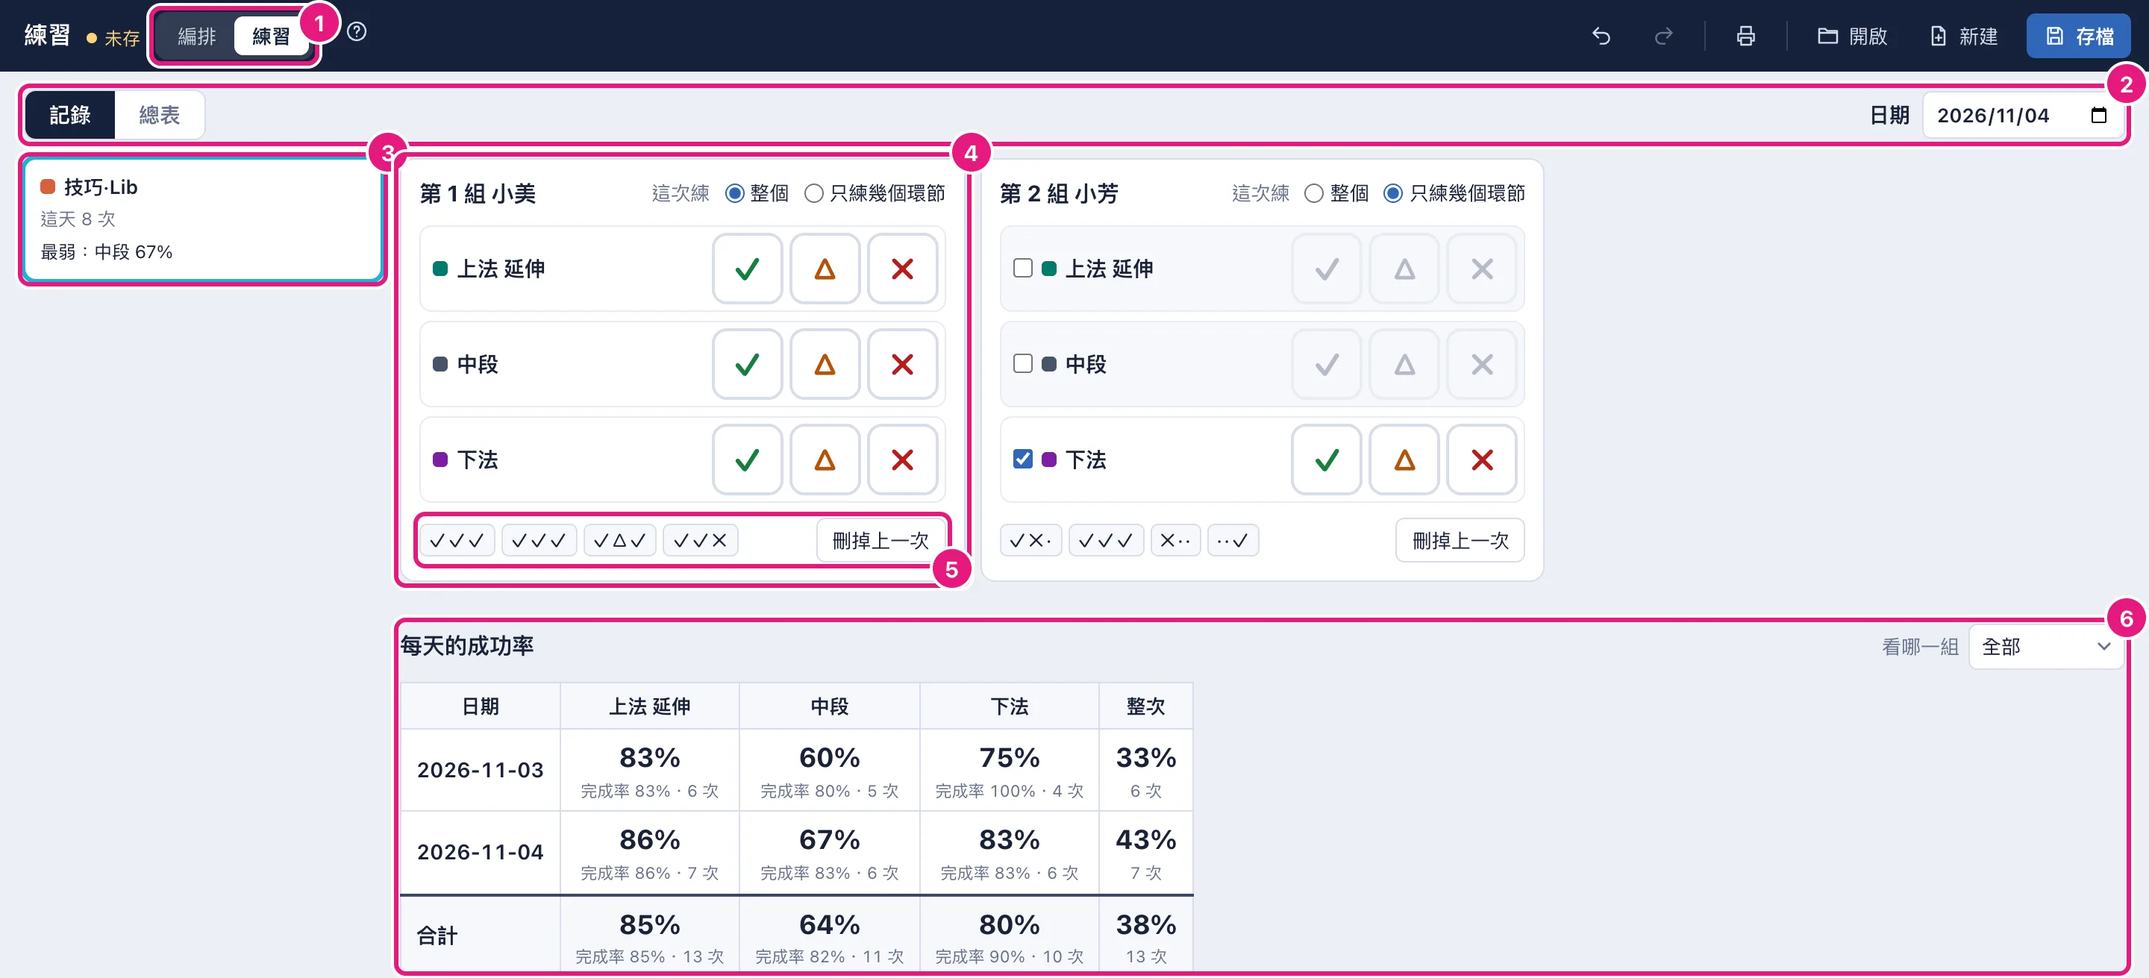
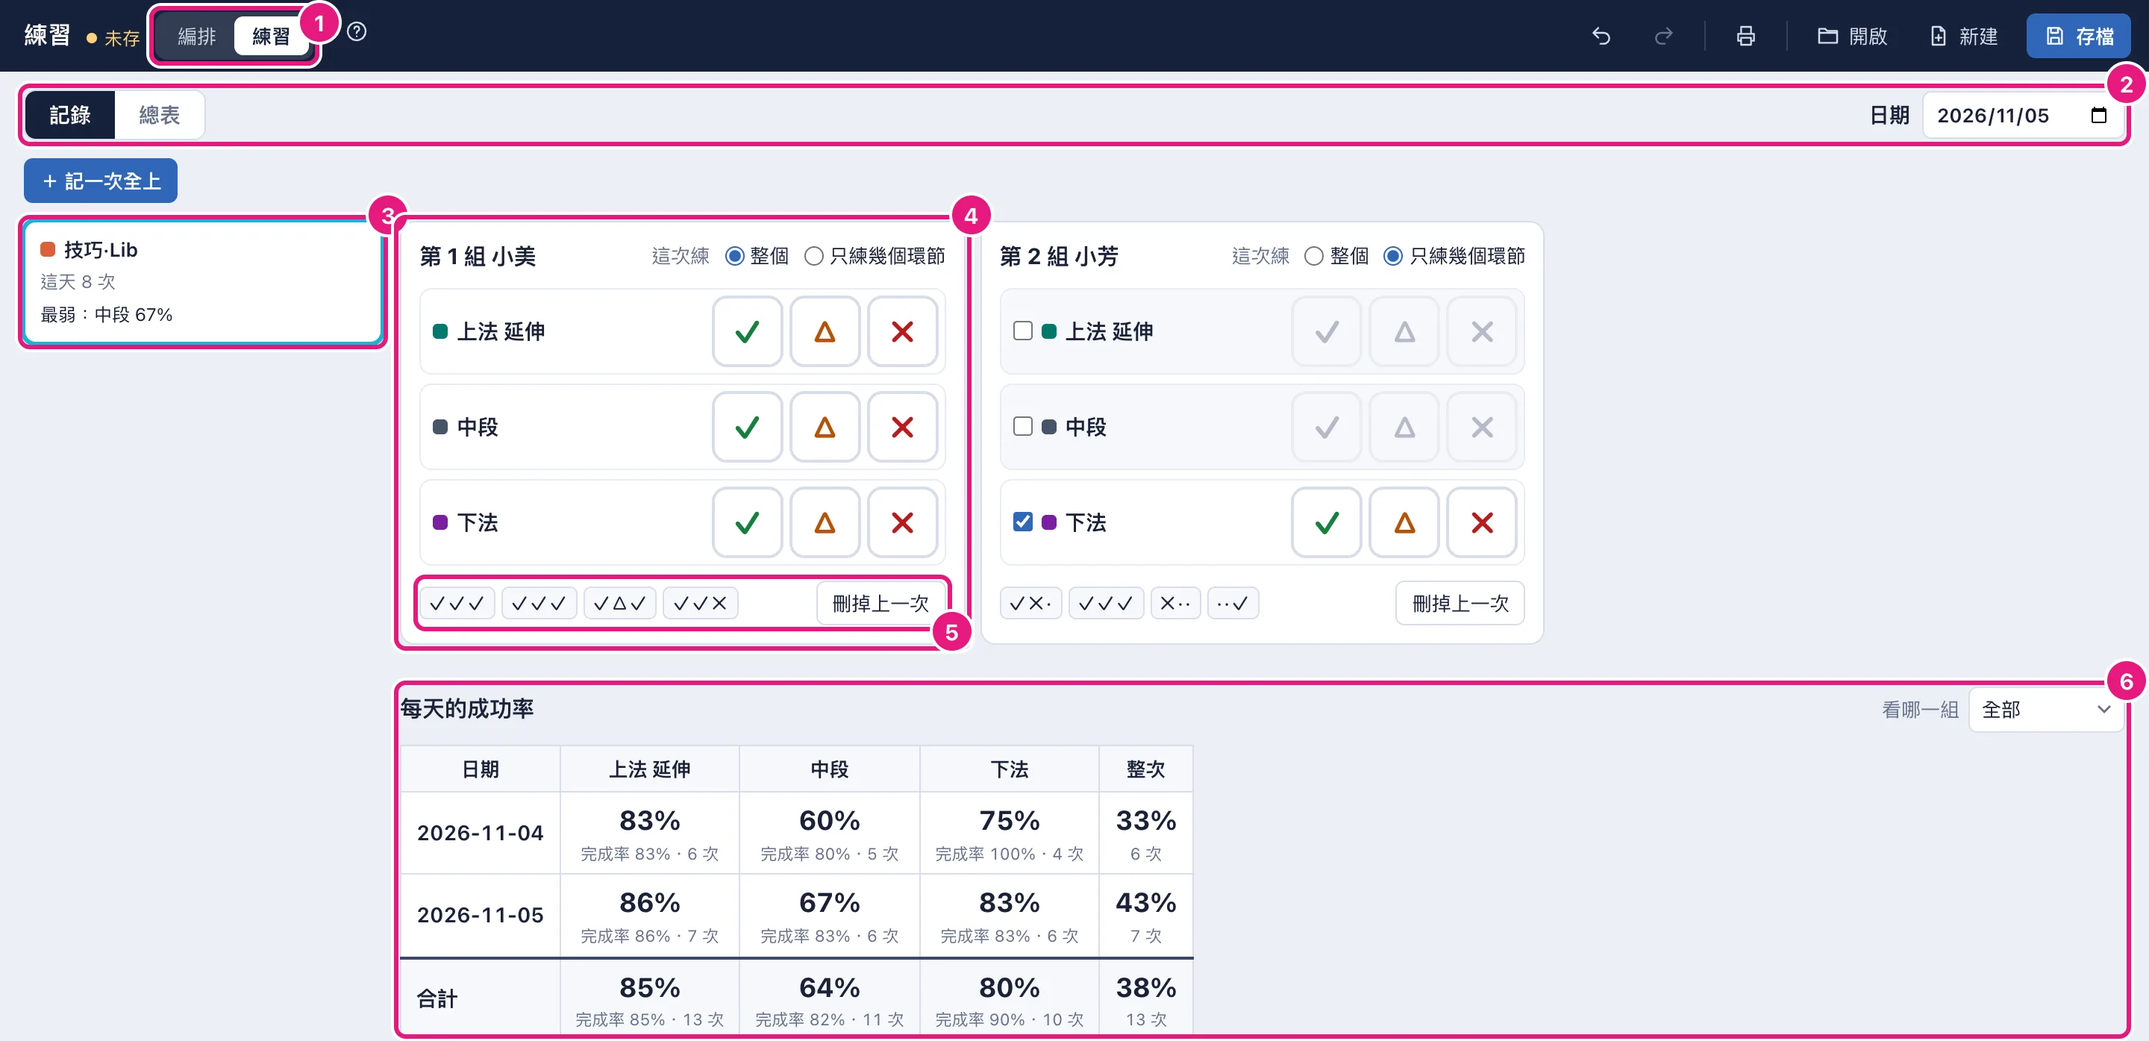
使用說明 4.10 照新的做法改：拍點格子加環節、場上分組（#70）
- 4.10：音樂段在拍點格子加、標、清、點色條改環節；口號段的環節列；
  場上分組（組號小圓、分組浮動列、數字鍵、n 人沒分組）；記錄頁和總表都能記一次全上。
- 圖 16 換成兩張新截圖：拍點格子的環節列（rate）和場上分組的浮動列（squads）。
- 名詞對照表的「組」「環節」照 GLOSSARY.md 改；快捷鍵表多一列數字鍵。
- 截圖腳本第 10 步改用拍點格子加三個環節、在泳道點名字選人後按「放進新的一組」；重拍全部截圖。
- 記錄頁沒分組時的提示不再叫人去選「第幾組」。

Claude-Session: https://claude.ai/code/session_01CaumttvZ1CWN5S4YrSALpJ

diff --git a/src/routes/guide/+page.svelte b/src/routes/guide/+page.svelte
@@ -20,6 +20,7 @@
 	import printShot from '#lib/guide/shots/print.webp';
 	import cuesShot from '#lib/guide/shots/cues.webp';
 	import rateShot from '#lib/guide/shots/rate.webp';
+	import squadsShot from '#lib/guide/shots/squads.webp';
 	import recordShot from '#lib/guide/shots/record.webp';
 	import summaryShot from '#lib/guide/shots/summary.webp';
 
@@ -179,8 +180,8 @@
 							<tr><td><b>步驟</b></td><td>一個動作裡分出來的一段，例如下手、落地、放，可以佔好幾拍。動作自己的名字（例如 Lib）不是步驟。</td></tr>
 							<tr><td><b>手位</b></td><td>手臂擺出的固定姿勢，例如 high V、T，只佔一拍。</td></tr>
 							<tr class="group"><td colspan="2">成功率（見 <a href="#practice">4.10</a>）</td></tr>
-							<tr><td><b>組</b></td><td>一個動作裡一起做、一起算成功率的幾個人，例如一個技巧的主底、側底、後保、上層。一個動作可以有好幾組。沒分到組的人不算成功率。騰翻、跳躍的動作不分組，每個人自己算。</td></tr>
-							<tr><td><b>環節</b></td><td>一個動作裡要分開算成功率的一部分。種類只有五種：上法、中段、轉接、下法、整體；可以再取名字，例如上法「延伸」。</td></tr>
+							<tr><td><b>組</b></td><td>一個動作裡一起做、一起算成功率的幾個人，例如一個技巧的主底、側底、後保、上層。一個動作可以有好幾組，例如 16 個人分 4 組同時做一樣的技巧。組號從 1 連續往下排，不跳號：一組空掉，後面的組往前補號，紀錄跟著換號。加第一個環節時，全部的人先在第 1 組。沒分到組的人不算成功率。騰翻、跳躍的動作不分組，每個人自己算。</td></tr>
+							<tr><td><b>環節</b></td><td>一個動作裡要分開算成功率的一部分。種類只有五種：上法、中段、轉接、下法、整體；可以再取名字，例如上法「延伸」。在音樂段，環節一定佔動作裡的哪幾拍，照拍的先後排；拍被清光，環節就沒了。在口號段不數拍，環節不標拍，照加的先後排。動作有環節才記成功率，最後一個環節沒了就不記。</td></tr>
 							<tr><td><b>上法、中段、轉接、下法</b></td><td>上法是把上層撐上去；中段是上層停在上面、不換技巧；轉接是上層在上面換到另一個技巧；下法是讓上層回到地上。</td></tr>
 							<tr><td><b>整體</b></td><td>環節的一種：整個動作當成一個環節一起算，例如一次拋投、一趟騰翻。</td></tr>
 							<tr><td><b>記號</b></td><td>打在一次的一個環節上的 ✓（成功）、△（小失誤）或 ✗（失敗）。</td></tr>
@@ -792,13 +793,18 @@
 				<h4>先在動作上加環節</h4>
 				<figure class="diagram shot">
 					<a href={rateShot} target="_blank" rel="noopener"
-						><img src={rateShot} style:max-width="360px" alt="動作表單打開記成功率之後：1 記成功率的開關、2 每個人旁邊選第幾組、3 環節清單（種類、名字、顏色、佔哪幾拍）、4 加環節。" /></a
+						><img src={rateShot} style:max-width="360px" alt="動作表單的拍點格子和拍點小窗的環節列：1 拍點格子的環節那一條、2 環節列現有的環節（把選的拍標給它）、3 加新環節的種類、名字和加入、4 清掉、5 改環節（顏色、種類、名字）。" /></a
 					>
-					<figcaption>圖 16　動作表單的「成功率」那一區。① 「記成功率」　② 每個人選第幾組　③ 環節清單　④ 加環節。</figcaption>
+					<a href={squadsShot} target="_blank" rel="noopener"
+						><img src={squadsShot} style:max-width="820px" alt="場地上分組：6 每個人圓點右上角的組號小圓（組的顏色）、7 場地下面的分組浮動列，寫選了幾個人、8 組號按鈕、9 放進新的一組和拿出組。" /></a
+					>
+					<figcaption>
+						圖 16　加環節和分組。上：拍點格子的環節列，選了 4-1 到 4-4（上法 延伸）。① 環節那一條　② 現有的環節　③ 加新環節　④ 「清掉」　⑤ 改環節。下：場上分組，選了第 2 組的三個人。⑥ 組號小圓　⑦ 分組浮動列　⑧ 組號　⑨ 「＋」放進新的一組、「✕」拿出組。
+					</figcaption>
 				</figure>
 				<ol class="steps">
-					<li>在泳道上點動作的色條，在動作表單的拍點格子加環節（見下面「環節」）。加了第一個環節，動作就開始記成功率。</li>
-					<li>照你們怎麼練，改環節、分組（見下面兩小節）。</li>
+					<li>在泳道上點動作的色條，在動作表單的拍點格子加環節（見下面「環節」）。加了第一個環節，動作就開始記成功率，動作裡全部的人先在第 1 組。</li>
+					<li>照你們怎麼練，改環節、在場上分組（見下面兩小節）。</li>
 				</ol>
 				<p class="note">
 					沒有環節的動作不算成功率，也不會出現在練習畫面。環節全部刪掉，動作就不記成功率，組也一起拿掉；已經有紀錄的話，會先問（見下面「會清掉紀錄的修改」）。
@@ -806,31 +812,46 @@
 
 				<h4>環節</h4>
 				<p class="purpose">
-					<b>環節</b>是一個動作裡要分開算成功率的一部分。種類只有五種：<b>上法、中段、轉接、下法、整體</b>（整個動作當成一個環節，例如一次拋投、一趟騰翻）。每個環節可以再取名字，例如上法「延伸」，畫面上寫成「上法 延伸」。環節有先後順序；同一個動作裡，每一組記的環節都一樣。
+					<b>環節</b>是一個動作裡要分開算成功率的一部分。種類只有五種：<b>上法、中段、轉接、下法、整體</b>（整個動作當成一個環節，例如一次拋投、一趟騰翻）。每個環節可以再取名字，例如上法「延伸」，畫面上寫成「上法 延伸」。同一個動作裡，每一組記的環節都一樣。
 				</p>
-				<ul class="steps">
-					<li>
-						<b>加：</b>在拍點格子選好拍（見 <a href="#cues">4.7</a>），拍點小窗最下面多一排「環節」：選種類、打名字（可以空著），按「加入」，加一個新環節標在這幾拍。只有音樂段的動作能標拍，要從整拍開始。
-					</li>
+				<p>音樂段的動作，環節標在動作裡的哪幾拍：</p>
+				<ol class="steps">
+					<li>在拍點格子選好拍（見 <a href="#cues">4.7</a>），要從整拍開始。拍點小窗最下面是「環節」那一排。</li>
+					<li><b>加：</b>選種類、打名字（可以空著），按「加入」，加一個新環節標在這幾拍。</li>
 					<li><b>標拍：</b>按那一排現有環節的名字，就把選的拍標給它。</li>
 					<li>
-						<b>刪：</b>選好拍，按那一排的「清掉」，拿掉選到的拍上標的環節：只清到一部分的環節變短，拍被清光的環節就刪掉。把一個環節的拍全部標給別的環節，它也會刪掉。要刪的環節已經打過記號的話，會先問。
+						<b>刪：</b>按那一排的「清掉」，拿掉選到的拍上標的環節：只清到一部分的環節變短，拍被清光的環節就刪掉。把一個環節的拍全部標給別的環節，它也會刪掉。要刪的環節已經打過記號的話，小窗裡會先問，按「確定刪除」才刪。
 					</li>
-				</ul>
+					<li>
+						<b>改：</b>點拍點格子環節那一條上的色條，選到的就剛好是那個環節的拍，那一排下面多出「改環節」：點色塊換顏色（「照種類」是回到種類的顏色）、換種類、改名字。
+					</li>
+				</ol>
+				<p>口號段不數拍，格子換成一句「口號段不數拍，不能放拍點」，下面直接一排「環節」，環節不用標拍：</p>
+				<ol class="steps">
+					<li><b>加：</b>選種類、打名字，按「加入」，加在最後。環節照加的先後排。</li>
+					<li><b>改、刪：</b>點一個環節選它（再點一次是不選），下面多出「改環節」，可以改顏色、種類、名字；按「清掉」刪掉它，有記號的話先問。</li>
+				</ol>
 				<p class="note">
-					環節照標的拍的先後排。拍點格子多一條「環節」，那幾拍鋪上環節的顏色；泳道的色條上緣多一條環節顏色的細線；八拍表那一列也寫出環節。標拍不會改到拍點。動作變短或換到口號段、標的拍放不下時，跟拍點一起先問（見 <a href="#cues">4.7</a>）。
+					音樂段的環節照標的拍的先後排。拍點格子多一條「環節」，那幾拍鋪上環節的顏色；泳道的色條上緣多一條環節顏色的細線；八拍表那一列也寫出環節。標拍不會改到拍點。動作變短、標的拍放不下時，跟拍點一起先問（見 <a href="#cues">4.7</a>）；拍被清光的環節會刪掉。
 				</p>
 
 				<h4>組</h4>
 				<p class="purpose">
-					<b>組</b>是一個動作裡一起做、一起算成功率的幾個人，例如一個技巧的主底、側底、後保、上層。16 個人分 4 組同時做一樣的技巧，就分成第 1 到第 4 組，每一組分開算。
+					<b>組</b>是一個動作裡一起做、一起算成功率的幾個人，例如一個技巧的主底、側底、後保、上層。16 個人分 4 組同時做一樣的技巧，就分成第 1 到第 4 組，每一組分開算。分組在<b>場地上</b>做。
 				</p>
 				<ol class="steps">
-					<li>動作有環節之後，動作表單「人」清單裡，每個人的任務角色旁邊多一個選單：選「第 1 組」「第 2 組」……；選「沒有」就是不分組。</li>
-					<li>練習畫面寫組的名字，例如「第 1 組 小美」：後面是這組裡任務角色是上層的人（有好幾個就寫名單上第一個）；沒有上層就只寫「第 1 組」。</li>
+					<li>在泳道上點有環節的動作。場上這個動作的每個人，圓點右上角多一個<b>組號小圓</b>，塗那一組的顏色；沒分組的是灰色「?」。場地下面（「正面／裁判」那一排）出現<b>分組浮動列</b>。</li>
+					<li>在場上選人（點、Shift＋點、框選，見 <a href="#formations">4.5</a>），浮動列寫「選了 3 人」。不在這個動作裡的人不算。</li>
+					<li>按浮動列的組號（例如「2」）放進那一組；按「＋」放進新的一組；按「✕」拿出組（不分組）。選的人一次改好，按一次「復原」就退回去。</li>
+					<li>電腦上選好人，也可以按<b>數字鍵</b>：1–9 放進那一組（最多到新的一組），0 拿出組。</li>
+					<li>沒選人時按組號，就把那一組的人全選起來。有人沒分組時，浮動列最後寫「n 人沒分組」（n 是人數），按它把他們選起來。</li>
 				</ol>
 				<p class="note">
-					沒分到組的人不算成功率。<b>騰翻、跳躍的動作不分組，每個人自己算</b>：這兩個大類沒有組的選單，練習畫面一個人一張卡、一欄。
+					組號從 1 連續往下排，不跳號：一組的人都拿出來，後面的組往前補號，紀錄跟著換號。動作只有一組時，用「＋加人…」加進來的人直接進第 1 組。動作表單「人」清單裡，每個人旁邊寫「第 n 組」或「沒分組」，只能看，不能改。<br />
+					練習畫面寫組的名字，例如「第 1 組 小美」：後面是這組裡任務角色是上層的人（有好幾個就寫名單上第一個）；沒有上層就只寫「第 1 組」。
+				</p>
+				<p class="note">
+					沒分到組的人不算成功率。<b>騰翻、跳躍的動作不分組，每個人自己算</b>：這兩個大類沒有組號小圓和分組浮動列，練習畫面一個人一張卡、一欄。
 				</p>
 
 				<h4>記錄頁：記分段練</h4>
@@ -881,7 +902,7 @@
 				<h4>記一次全上</h4>
 				<p class="purpose"><b>全上</b>是整支流程從頭到尾連著做一遍。全上記的次可以跟分段練分開看（「練法」篩選）。</p>
 				<ol class="steps">
-					<li>在總表按「＋ 記一次全上」。每個有記成功率的動作一張表，一組一欄、一個環節一格，每格先是 ✓。</li>
+					<li>在記錄頁最上面或總表按「＋ 記一次全上」。每個有記成功率的動作一張表，一組一欄、一個環節一格，每格先是 ✓。</li>
 					<li>點出錯的格子：點一下變 △，再點變 ✗，再點回 ✓。一組在某個環節是 ✗，它後面的環節就空著。</li>
 					<li>中途停了，沒做到的動作按它的「沒做（停了）」，那些動作這次不記。</li>
 					<li>按「存這次全上」：每組在每個動作各存成一次，都算整個做。按「取消」不存。</li>
@@ -904,7 +925,7 @@
 					<li><b>刪掉動作的最後一個環節、刪動作：</b>那個動作的紀錄全部清掉。有紀錄的動作，按「刪除動作」或 Delete 也會先問。</li>
 					<li><b>刪環節：</b>這個環節的記號清掉；一次裡只有這個環節有記號的，那一次整個清掉。</li>
 					<li>
-						<b>動作換了人：</b>在動作表單拿掉人或改組，讓某一組沒人了；騰翻、跳躍的動作拿掉人；或大類在有分組的和騰翻、跳躍之間換（變成每個人自己算）。那些組、那些人的紀錄清掉。
+						<b>動作換了人：</b>在動作表單拿掉人，或在場上改組，讓某一組沒人了；騰翻、跳躍的動作拿掉人；或大類在有分組的和騰翻、跳躍之間換（變成每個人自己算）。那些組、那些人的紀錄清掉。
 					</li>
 					<li><b>段縮短、刪隊員：</b>被刪掉的動作的紀錄，和那個隊員所在的組、他自己的紀錄，一起清掉；確認的訊息會多寫清掉幾次紀錄。</li>
 				</ul>
@@ -928,6 +949,7 @@
 							<tr><td><kbd>⌘⇧Z</kbd>／<kbd>Ctrl+Shift+Z</kbd>、<kbd>Ctrl+Y</kbd></td><td>重做</td></tr>
 							<tr><td><kbd>Delete</kbd>（Mac：<kbd>delete</kbd>）</td><td>刪掉選到的站位或動作（不會先問，按錯可以復原；動作有成功率紀錄時會先問）</td></tr>
 							<tr><td><kbd>Esc</kbd></td><td>關掉段設定、流程設定、八拍表；都沒開時，取消選取</td></tr>
+							<tr><td><kbd>1</kbd>–<kbd>9</kbd>、<kbd>0</kbd></td><td>選到有環節的動作、場上選好人時：放進那一組；0 拿出組（見 <a href="#practice">4.10</a>）</td></tr>
 							<tr><td><kbd>Shift</kbd>＋點</td><td>在場地或泳道名字上多選隊員</td></tr>
 							<tr><td>滑鼠滾輪（在場地上）</td><td>場地放大、縮小</td></tr>
 							<tr><td>練習畫面</td><td>只有存檔、復原、重做；空白鍵不播放，Delete 不刪東西</td></tr>

diff --git a/src/routes/guide/guide.svelte.test.ts b/src/routes/guide/guide.svelte.test.ts
@@ -18,7 +18,7 @@ describe('使用說明', () => {
 	it('每張圖都有替代文字', () => {
 		render(Guide);
 		const images = document.querySelectorAll('img');
-		expect(images.length).toBe(18);
+		expect(images.length).toBe(19);
 		for (const img of images) expect(img.alt.length).toBeGreaterThan(10);
 	});
 
@@ -35,7 +35,7 @@ describe('使用說明', () => {
 		expect(section.querySelector('img')?.alt).toContain('拍點');
 	});
 
-	it('有一節講練習：怎麼打開記成功率、記錄頁、總表、怎麼算、會清掉紀錄的情況', () => {
+	it('有一節講練習：在拍點格子加環節、在場上分組、記錄頁、總表、怎麼算、會清掉紀錄的情況', () => {
 		render(Guide);
 		const toc = screen.getByRole('navigation', { name: '目錄' });
 		const link = [...toc.querySelectorAll('a')].find((a) => a.textContent === '4.10 練習');
@@ -46,15 +46,34 @@ describe('使用說明', () => {
 			'記成功率', '環節', '上法', '中段', '轉接', '下法', '整體', '標拍', '組', '每個人自己算',
 			'記號', '成功', '小失誤', '失敗', '整個', '只練幾個環節', '刪掉上一次', '復原',
 			'總表', '期間', '練法', '大字看', '明細', '記一次全上', '沒做（停了）', '全上', '分段練',
-			'成功率', '完成率', '整次成功率', '保留舊紀錄', '清掉重算'
+			'成功率', '完成率', '整次成功率', '保留舊紀錄', '清掉重算',
+			'拍點格子', '口號段', '改環節', '組號小圓', '分組浮動列', '數字鍵', 'n 人沒分組'
 		]) {
 			expect(text, words).toContain(words);
 		}
+		// 拿掉的東西不再出現：記成功率的勾勾、環節清單、組的選單
+		for (const gone of ['打開記成功率', '「記成功率」', '環節清單', '選第幾組', '組的選單']) {
+			expect(text, gone).not.toContain(gone);
+		}
+		// 記錄頁和總表都能記一次全上
+		expect(text).toContain('在記錄頁最上面或總表按「＋ 記一次全上」');
 		// 記號不叫「標記」（標記是圓點上的字）
 		expect(text).not.toContain('標記');
 		const alts = [...section.querySelectorAll('img')].map((img) => img.alt);
 		expect(alts.some((a) => a.includes('記錄頁'))).toBe(true);
 		expect(alts.some((a) => a.includes('總表'))).toBe(true);
+		expect(alts.some((a) => a.includes('環節') && a.includes('拍點格子'))).toBe(true);
+		expect(alts.some((a) => a.includes('分組浮動列'))).toBe(true);
+	});
+
+	it('名詞對照表的「組」「環節」跟名詞表一樣：組號不跳號、加第一個環節全部進第 1 組、口號段的環節不標拍', () => {
+		render(Guide);
+		const row = (word: string) =>
+			[...document.querySelectorAll('#words tr')].find((tr) => tr.querySelector('td b')?.textContent === word)!.textContent!;
+		expect(row('組')).toContain('組號從 1 連續往下排，不跳號');
+		expect(row('組')).toContain('加第一個環節時，全部的人先在第 1 組');
+		expect(row('環節')).toContain('在口號段不數拍，環節不標拍');
+		expect(row('環節')).toContain('拍被清光，環節就沒了');
 	});
 
 	it('「組」只用在成功率：動作是一群隊員，複製人照新的選項文字', () => {

diff --git a/src/lib/components/RecordPage.svelte b/src/lib/components/RecordPage.svelte
@@ -66,7 +66,7 @@
 				{#each attemptWhos(flow, action) as w (w.who)}
 					<AttemptCard {flow} {action} who={w.who} name={w.name} {date} {onrecord} />
 				{:else}
-					<p class="empty">這個動作還沒有分組：到編排的動作表單，幫人選「第幾組」。</p>
+					<p class="empty">這個動作還沒有分組：到編排選這個動作，在場上選人，用場地下面的分組浮動列分組。</p>
 				{/each}
 			{/key}
 		</div>
